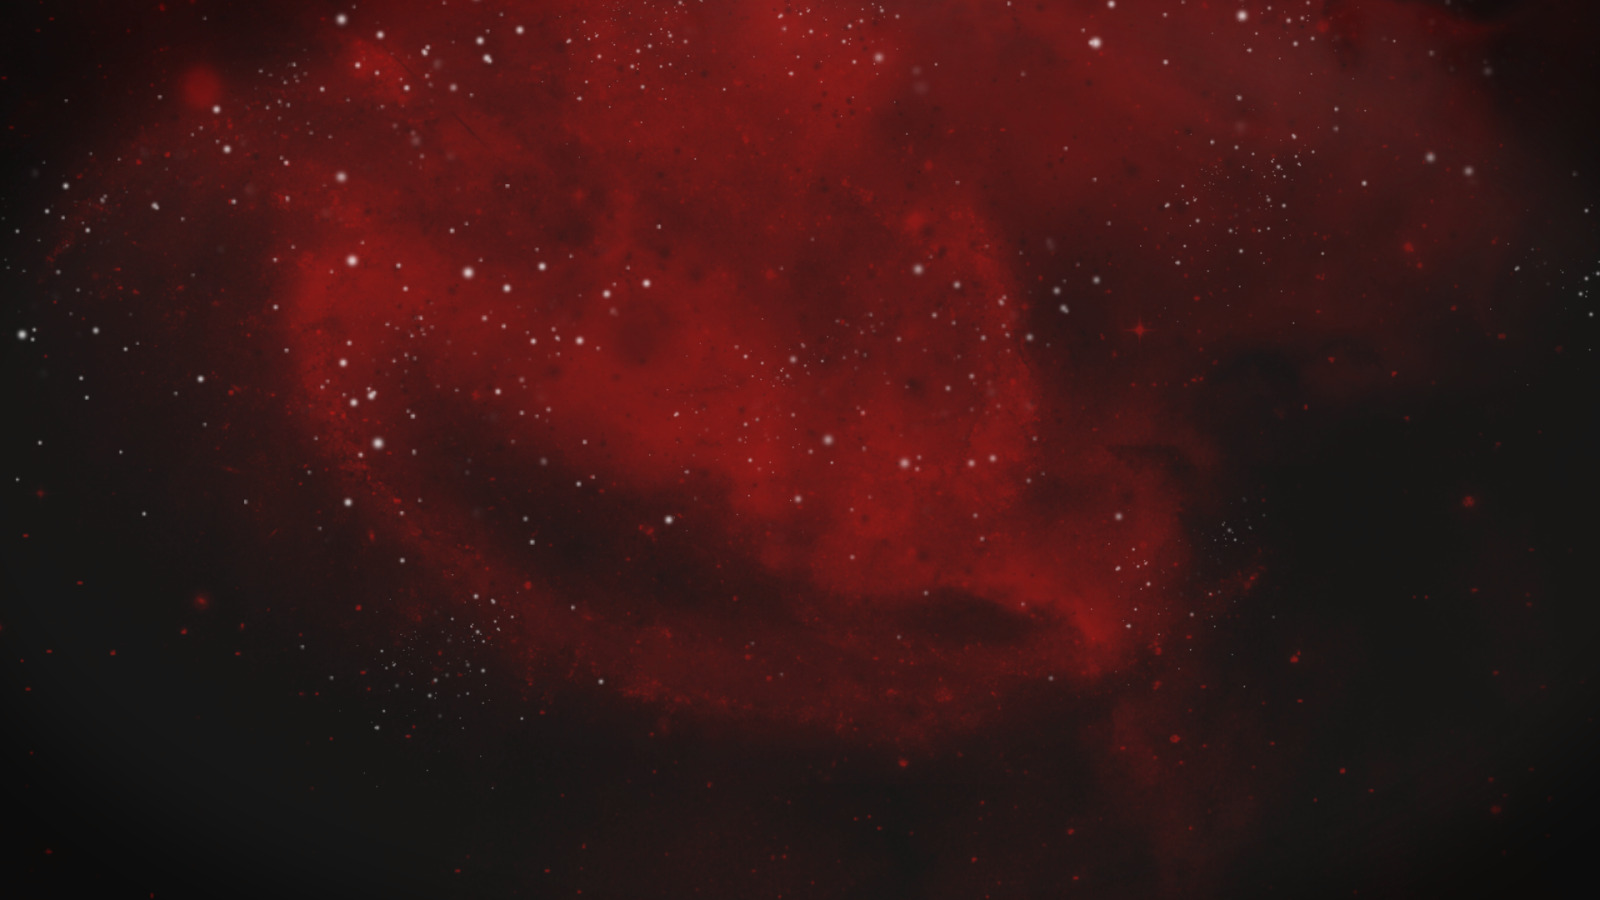
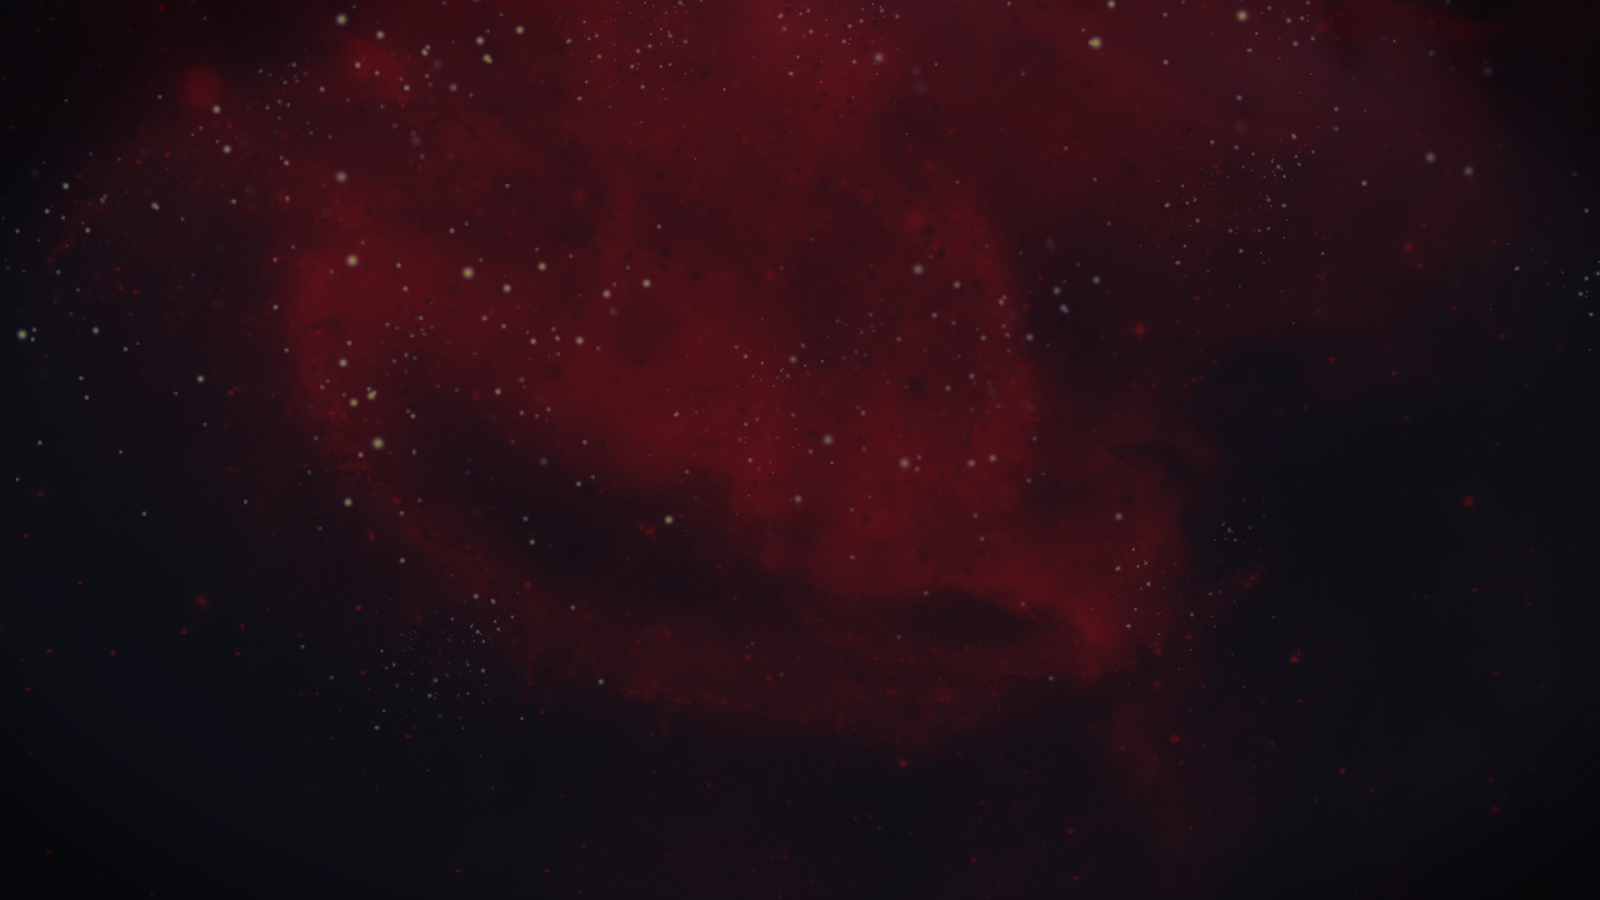
fixes pink bg; adds ToggleResetEvent

diff --git a/RimionshipServer/wwwroot/css/site.css b/RimionshipServer/wwwroot/css/site.css
@@ -41,24 +41,28 @@ body {
 
 @media only screen and (min-width: 1920px) {
     .rimtitlebackground {
-        background-image: url("/img/bloodbackground_1080p.png"), linear-gradient(rgba(128,0,128,0.6),rgba(128,0,128,0.6)) !important;
+        background-image: url("/img/bloodbackground_1080p.png") !important;
     }
 }
+
 @media only screen and (max-width: 1919px) and (min-width: 1600px) {
     .rimtitlebackground {
-        background-image: url("/img/bloodbackground_1600x900.png"), linear-gradient(rgba(128,0,128,0.6),rgba(128,0,128,0.6)) !important;
+        background-image: url("/img/bloodbackground_1600x900.png") !important;
     }
 }
+
 @media only screen and (max-width: 1599px) and (min-width: 1280px) {
     .rimtitlebackground {
-        background-image: url("/img/bloodbackground_HW_1080p.png"), linear-gradient(rgba(128,0,128,0.6),rgba(128,0,128,0.6)) !important;
+        background-image: url("/img/bloodbackground_HW_1080p.png") !important;
     }
 }
+
 @media only screen and (max-width: 1279px) {
     .rimtitlebackground {
-        background-image: url("/img/bloodbackground_720p.png"), linear-gradient(rgba(128,0,128,0.6),rgba(128,0,128,0.6)) !important;
+        background-image: url("/img/bloodbackground_720p.png") !important;
     }
 }
+
 .rimtitlebackground {
     background-position: center center;
     background-blend-mode: multiply;

diff --git a/RimionshipServer/Pages/Admin/ModSettings.cshtml.cs b/RimionshipServer/Pages/Admin/ModSettings.cshtml.cs
@@ -6,13 +6,13 @@ using RimionshipServer.API;
 using RimionshipServer.Data;
 using RimionshipServer.Pages.Api;
 using RimionshipServer.Services;
+using Serilog;
 using System.ComponentModel.DataAnnotations;
 using System.Diagnostics;
 using System.IO.Compression;
 using System.Net;
 using System.Security.Cryptography;
 using System.Text;
-using Serilog;
 namespace RimionshipServer.Pages.Admin
 {
     public class ModSettings : PageModel
@@ -69,7 +69,7 @@ namespace RimionshipServer.Pages.Admin
             var toDelete = await _dbContext.SaveFiles.FindAsync(SaveFileId);
             if (toDelete is null)
                 return RedirectToPage("/Admin/ModSettings");
-            
+
             if (SaveFilePageModel.SafeFile?.Name == toDelete.Name)
             {
                 SaveFilePageModel.SafeFile = null;
@@ -77,15 +77,18 @@ namespace RimionshipServer.Pages.Admin
             }
             _dbContext.SaveFiles.Remove(toDelete);
             await _dbContext.SaveChangesAsync();
-            
+
+            _ = GrpcService.ToggleResetEvent();
             return RedirectToPage("/Admin/ModSettings");
         }
-        
+
         public async Task<IActionResult> OnPostFileSelectAsync()
         {
             SaveFilePageModel.SafeFile = await _dbContext.SaveFiles.FindAsync(SaveFileId);
             Debug.Assert(SaveFilePageModel.SafeFile is not null);
             await _dbContext.SetSaveSettingsAsync("http://" + DownloadURI, SaveFilePageModel.SafeFile, StartingPawns);
+
+            _ = GrpcService.ToggleResetEvent();
             return RedirectToPage("/Admin/ModSettings");
         }
 
@@ -130,6 +133,7 @@ namespace RimionshipServer.Pages.Admin
             var md5B64 = Convert.ToHexString(hash).ToLower();
             if (oldFile?.MD5 == md5B64)
             {
+                _ = GrpcService.ToggleResetEvent();
                 return RedirectToPage("/Admin/ModSettings");
             }
             memstream.Seek(0, SeekOrigin.Begin);
@@ -152,6 +156,7 @@ namespace RimionshipServer.Pages.Admin
                 _dbContext.SaveFiles.Update(oldFile);
             }
             await _dbContext.SaveChangesAsync();
+            _ = GrpcService.ToggleResetEvent();
             return RedirectToPage("/Admin/ModSettings");
         }
 
@@ -260,6 +265,7 @@ namespace RimionshipServer.Pages.Admin
             _dbContext.LatestStats.RemoveRange(await _dbContext.LatestStats.ToArrayAsync());
             Stats.ClearCache();
             await _dbContext.SaveChangesAsync();
+            _ = GrpcService.ToggleResetEvent();
             return RedirectToPage("/Admin/ModSettings");
         }
     }

diff --git a/RimionshipServer/Pages/Admin/CreateNewSetting.cshtml.cs b/RimionshipServer/Pages/Admin/CreateNewSetting.cshtml.cs
@@ -1,6 +1,7 @@
 using Microsoft.AspNetCore.Mvc;
 using Microsoft.AspNetCore.Mvc.RazorPages;
 using Microsoft.EntityFrameworkCore;
+using RimionshipServer.API;
 using RimionshipServer.Data;
 using RimionshipServer.Services;
 
@@ -12,10 +13,10 @@ namespace RimionshipServer.Pages.Admin
         public MiscSettings.Settings Settings { get; set; } = null!;
 
         private readonly RimionDbContext _dbContext;
-        private readonly SettingService  _settingService;
+        private readonly SettingService _settingService;
         public CreateNewSetting(RimionDbContext dbContext, SettingService settingService)
         {
-            _dbContext           = dbContext;
+            _dbContext = dbContext;
             _settingService = settingService;
         }
 
@@ -30,11 +31,12 @@ namespace RimionshipServer.Pages.Admin
                                            .FirstAsync(x => x.Id == settingId);
                 return Page();
             }
-            Settings = new MiscSettings.Settings{
-                                                    Punishment = new (),
-                                                    Rising     = new (),
-                                                    Traits     = new (),
-                                                };
+            Settings = new MiscSettings.Settings
+            {
+                Punishment = new(),
+                Rising = new(),
+                Traits = new(),
+            };
             return Page();
         }
         public async Task<IActionResult> OnPostCreateAsync()
@@ -43,18 +45,21 @@ namespace RimionshipServer.Pages.Admin
                 _dbContext.Settings.Add(Settings);
             else
                 _dbContext.Settings.Update(Settings);
-            
+
             await _dbContext.SaveChangesAsync();
             await _settingService.ReloadSetting(_dbContext);
+            _ = GrpcService.ToggleResetEvent();
             return RedirectToPage("/Admin/ModSettings");
         }
-        
+
         public async Task<IActionResult> OnPostDeleteAsync()
         {
-            if (Settings.Id == 1)
-                return RedirectToPage("/Admin/ModSettings");
-            _dbContext.Settings.Remove(Settings);
-            await _dbContext.SaveChangesAsync();
+            if (Settings.Id != 1)
+            {
+                _dbContext.Settings.Remove(Settings);
+                await _dbContext.SaveChangesAsync();
+            }
+            _ = GrpcService.ToggleResetEvent();
             return RedirectToPage("/Admin/ModSettings");
         }
     }
